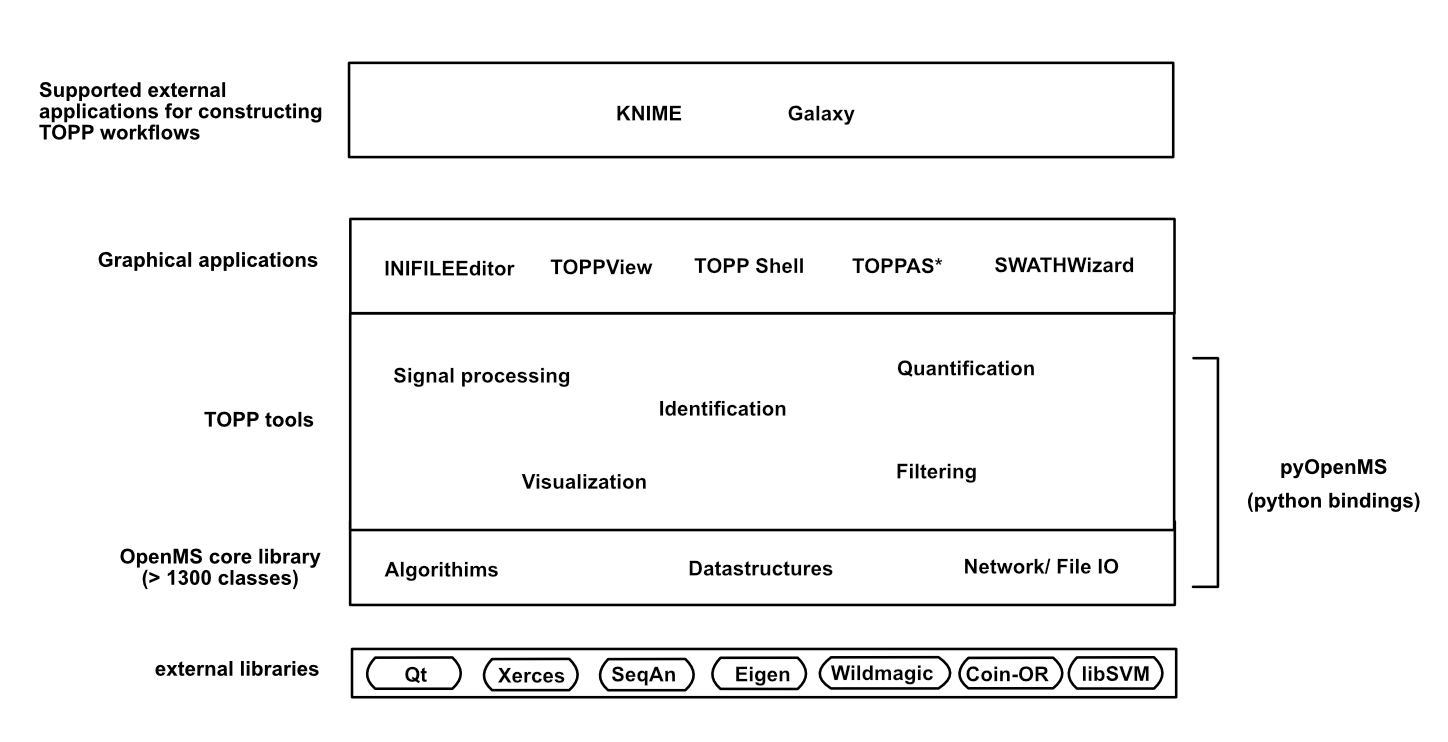
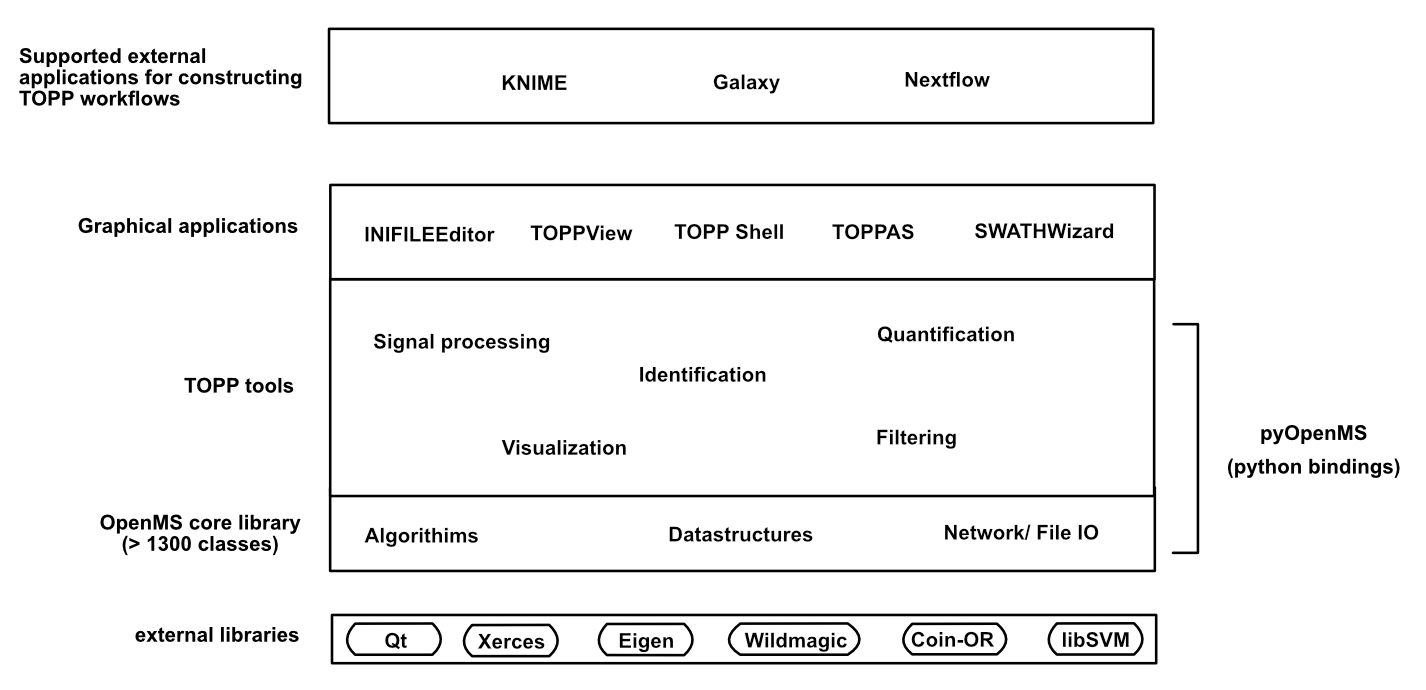
modified entry points title and content and modified image

diff --git a/docs/introduction/entry-points-to-openms.md b/docs/introduction/entry-points-to-openms.md
@@ -1,0 +1,37 @@
+Entry Points to OpenMS
+======================
+
+OpenMS has been structured so that users from a wide range of fields can access what they need to solve their particular problem, depending on their skillset.
+
+![openms architecture](../images/introduction/openms-architecture.png)
+
+The following entry points for OpenMS and its TOPP tools are available for users:
+- **Use a supported workflow editor** to create or run predefined workflows
+
+  Suppose you want to run the same sequence of TOPP tools on a number of data sets. You can use applications such as KNIME, Nextflow and Galaxy (where TOPP tools are available as a plugin), to apply predefined workflows or custom workflows you have designed on your data. 
+   
+  ```{note}
+  KNIME and Galaxy are recommended over TOPPAS, which can also be used to create workflows however is no longer supported.
+  ```
+- **Use OpenMS graphical user interfaces** to easily process data
+
+  When OpenMS is installed, a number of graphical user interfaces are available. Life science experts that want to quickly process their mass spectrometry data with the TOPP tools available can use this option. [View the following link for more information](../openms-applications-and-tools/openms-graphical-user-interfaces.md).
+
+- **Use command-line tools**
+
+  All TOPP tools can be executed from a Command Line Interface (CLI) directly or using a shell script. By using a CLI, users can easily automate tasks and create workflows that can be saved, stored and used on multiple datasets. Command line interfaces include, but are not limited to PowerShell in Windows or Terminal in Linux or macOS. [View the command-line usage quick start guide here](../openms-applications-and-tools/command-line-interface.md).
+
+- **Use the pyOpenMs python library** to rapidly prototype methods and scripts
+
+  Classes and methods originally written in C++ have been exposed to a Python interface (pyOpenMS) using Python bindings (via Cython). Central data structures even provide fast export to pandas dataframes or numpy arrays. pyOpenMS was created for users with Python knowledge who want to quickly prototype new methods and scripts or interface with other prominent data science, machine learning or visualization libraries such as tensorflow or plotly.  [View the instructions to install pyOpenMS here](https://pyopenms.readthedocs.io/en/latest/installation.html).
+
+- **Build the OpenMS C++ core library from source** to develop your own tools and methods
+
+  As shown in the image below, TOPP tools have been created using the OpenMS core library and some external libraries, which are written in C++. Using the OpenMS core library directly provides faster access to tools and shorter run-times. Additional TOPP tools can also be developed, customized or extended based on the user’s needs. [View the instructions to build the OpenMS core library from source here](https://abibuilder.informatik.uni-tuebingen.de/archive/openms/Documentation/release/latest/html/index.html).
+
+
+
+
+
+
+
